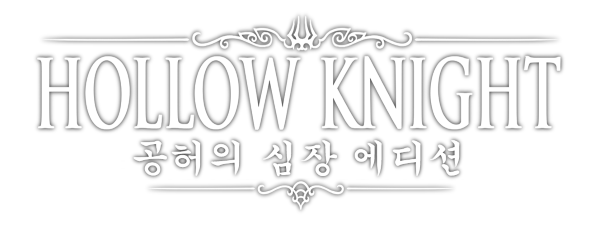
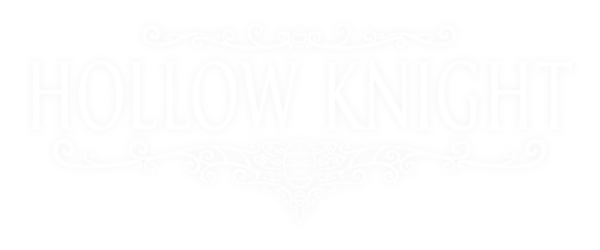
시작화면 및 움직임 수정

Changed region(s): [[0.06, 0.056, 0.96, 0.84]]

diff --git a/2d_project.py b/2d_project.py
@@ -31,7 +31,10 @@ class Knight:
             if self.frame == 0:
                 self.frame = 0
                 self.y = self.savey
-                self.state = 'idle'
+                if self.move == False:
+                    self.state = 'idle'
+                else:
+                    self.state = 'run'
             elif self.frame <= 6:
                 self.y += 25
             elif self.frame <= 12 and self.frame >= 6:
@@ -44,54 +47,60 @@ class Knight:
         elif self.state == 'run':
             self.frame = (self.frame + 1) % 9
             if self.dir == True:
-                self.x += 5
+                self.x += 7
             else:
-                self.x -= 5
+                self.x -= 7
         elif self.state == 'up':
             self.frame = (self.frame + 1) % 3 + 3
         elif self.state == 'down':
             self.frame = (self.frame + 1) % 3 + 7
 
     def draw(self):
-        if self.dir == True:
-            if self.state == 'rush' or self.state == 'jump':
-                self.image_r.clip_draw(self.frame*80, 223, 80, 80, self.x, self.y)
-            elif self.state == 'run':
-                self.image_r.clip_draw(self.frame * 80, 942, 80, 80, self.x, self.y)
-            elif self.state == 'attack':
-                self.image_r.clip_draw(self.frame * 80, 623, 80, 80, self.x, self.y)
-            elif self.state == 'idle':
-                self.image_r.clip_draw(self.frame * 80, 304, 80, 80, self.x, self.y)
-            elif self.state == 'up':
-                self.image_r.clip_draw(self.frame * 80, 304, 80, 80, self.x, self.y)
-            elif self.state == 'down':
-                self.image_r.clip_draw(self.frame * 80, 623, 80, 80, self.x, self.y)
-        elif self.dir == False:
-            if self.state == 'rush' or self.state == 'jump':
-                self.image_l.clip_draw(942 - self.frame * 80, 223, 80, 80, self.x, self.y)
-            elif self.state == 'run':
-                self.image_l.clip_draw(942 - self.frame * 80, 942, 80, 80, self.x, self.y)
-            elif self.state == 'attack':
-                self.image_l.clip_draw(942 - self.frame * 80, 623, 80, 80, self.x, self.y)
-            elif self.state == 'idle':
-                self.image_l.clip_draw(942 - self.frame * 80, 304, 80, 80, self.x, self.y)
-            elif self.state == 'up':
-                self.image_l.clip_draw(942 - self.frame * 80, 304, 80, 80, self.x, self.y)
-            elif self.state == 'down':
-                self.image_l.clip_draw(942 - self.frame * 80, 623, 80, 80, self.x, self.y)
+        if map.state != 'start':
+            if self.dir == True:
+                if self.state == 'rush' or self.state == 'jump':
+                    self.image_r.clip_draw(self.frame*80, 223, 80, 80, self.x, self.y)
+                elif self.state == 'run':
+                    self.image_r.clip_draw(self.frame * 80, 942, 80, 80, self.x, self.y)
+                elif self.state == 'attack':
+                    self.image_r.clip_draw(self.frame * 80, 623, 80, 80, self.x, self.y)
+                elif self.state == 'idle':
+                    self.image_r.clip_draw(self.frame * 80, 304, 80, 80, self.x, self.y)
+                elif self.state == 'up':
+                    self.image_r.clip_draw(self.frame * 80, 304, 80, 80, self.x, self.y)
+                elif self.state == 'down':
+                    self.image_r.clip_draw(self.frame * 80, 623, 80, 80, self.x, self.y)
+            elif self.dir == False:
+                if self.state == 'rush' or self.state == 'jump':
+                    self.image_l.clip_draw(942 - self.frame * 80, 223, 80, 80, self.x, self.y)
+                elif self.state == 'run':
+                    self.image_l.clip_draw(942 - self.frame * 80, 942, 80, 80, self.x, self.y)
+                elif self.state == 'attack':
+                    self.image_l.clip_draw(942 - self.frame * 80, 623, 80, 80, self.x, self.y)
+                elif self.state == 'idle':
+                    self.image_l.clip_draw(942 - self.frame * 80, 304, 80, 80, self.x, self.y)
+                elif self.state == 'up':
+                    self.image_l.clip_draw(942 - self.frame * 80, 304, 80, 80, self.x, self.y)
+                elif self.state == 'down':
+                    self.image_l.clip_draw(942 - self.frame * 80, 623, 80, 80, self.x, self.y)
 
 
 class Map:
     def __init__(self):
         self.x, self.y = 400, 300
+        self.cursor_x,self.cursor_y = 0,0
         self.map1_image = load_image('bg_1.png')
         self.start_image = load_image('start_menu.png')
         self.start_titleimage = load_image('start_title.png')
+        self.start_font = load_image('start_font.png')
+        self.start_cursor = load_image('cursor.png')
         self.state = ['start', 'map1']
     def draw(self):
         if self.state == 'start':
             self.start_image.clip_draw(0, 0, 800, 600, self.x, self.y)
             self.start_titleimage.clip_draw(0, 0, 600, 250, 400, 400)
+            self.start_font.clip_draw(0, 0, 170, 53, 400, 150)
+            self.start_cursor.clip_draw(0,0,37,37,self.cursor_x,self.cursor_y)
         elif self.state == 'map1':
             self.map1_image.clip_draw(0, 0, 800, 600, self.x, self.y)
 
@@ -109,6 +118,14 @@ def handle_events():
                 knight.savey = knight.y
                 knight.state = 'jump'
                 knight.frame = 0
+            elif event.key == SDLK_UP:
+                knight.state = 'up'
+            elif event.key == SDLK_DOWN:
+                knight.state = 'down'
+            elif event.key == SDLK_x:
+                knight.state = 'attack'
+            elif event.key == SDLK_c:
+                knight.state = 'rush'
             if knight.state != 'jump':
                 if event.key == SDLK_LEFT:
                     knight.state = 'run'
@@ -125,20 +142,13 @@ def handle_events():
                 elif event.key == SDLK_RIGHT:
                     knight.dir = True
                     knight.move = True
-            elif event.key == SDLK_UP:
-                knight.state = 'up'
-            elif event.key == SDLK_DOWN:
-                knight.state = 'down'
-            elif event.key == SDLK_x:
-                knight.state = 'attack'
-            elif event.key == SDLK_c:
-                knight.state = 'rush'
         elif event.type == SDL_KEYUP:
             if event.key == SDLK_RIGHT or event.key == SDLK_LEFT or event.key == SDLK_UP or event.key == SDLK_DOWN:
-                if knight.state != 'jump':
+                if knight.state != 'jump' and knight.state != 'attack':
                     knight.state = 'idle'
                     knight.move = False
-
+        elif event.type == SDL_MOUSEMOTION:
+            map.cursor_x, map.cursor_y = event.x, 600 -1 - event.y
 
 open_canvas()
 
@@ -148,6 +158,7 @@ running = True
 knight.dir = True
 knight.state = 'idle'
 map.state = 'start'
+hide_cursor()
 
 while running:
     handle_events()
@@ -158,15 +169,16 @@ while running:
     knight.draw()
     update_canvas()
 
-    if knight.state == 'idle':
-        delay(0.2)
-    elif knight.state == 'rush':
-        delay(0.02)
-    elif knight.state == 'run' or knight.state == 'attack':
-        delay(0.05)
-    elif knight.state == 'up' or knight.state == 'down':
-        delay(0.4)
-    elif knight.state == 'jump':
-        delay(0.075)
+    if map.state != 'start':
+        if knight.state == 'idle':
+            delay(0.2)
+        elif knight.state == 'rush':
+            delay(0.02)
+        elif knight.state == 'run' or knight.state == 'attack':
+            delay(0.05)
+        elif knight.state == 'up' or knight.state == 'down':
+            delay(0.4)
+        elif knight.state == 'jump':
+            delay(0.07)
 
 close_canvas()
